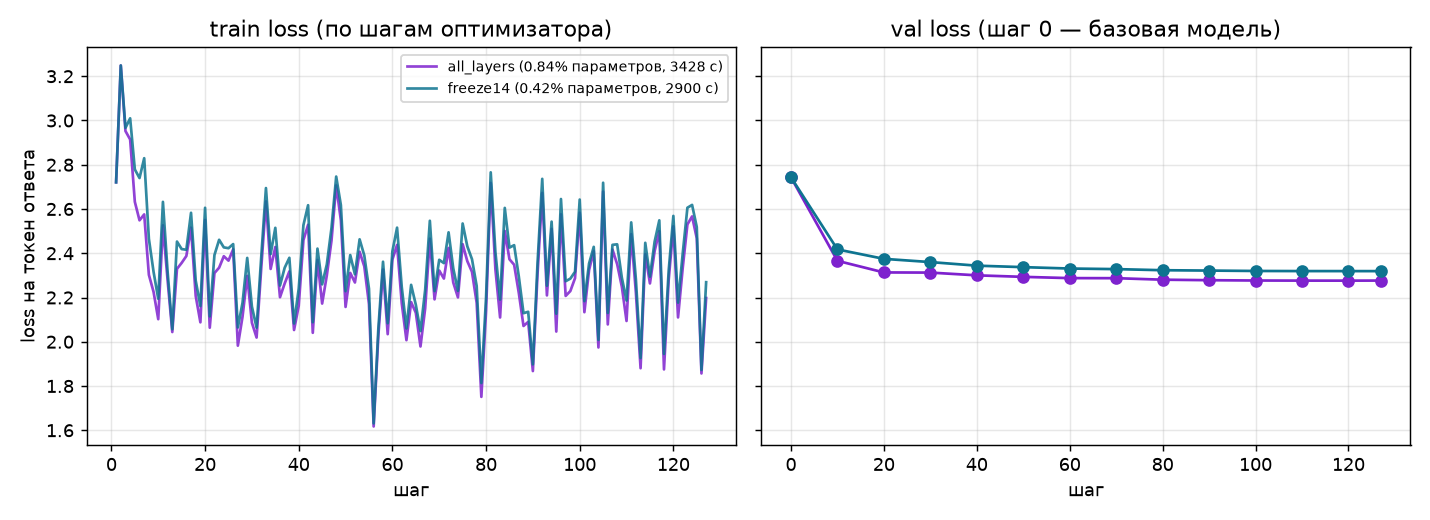
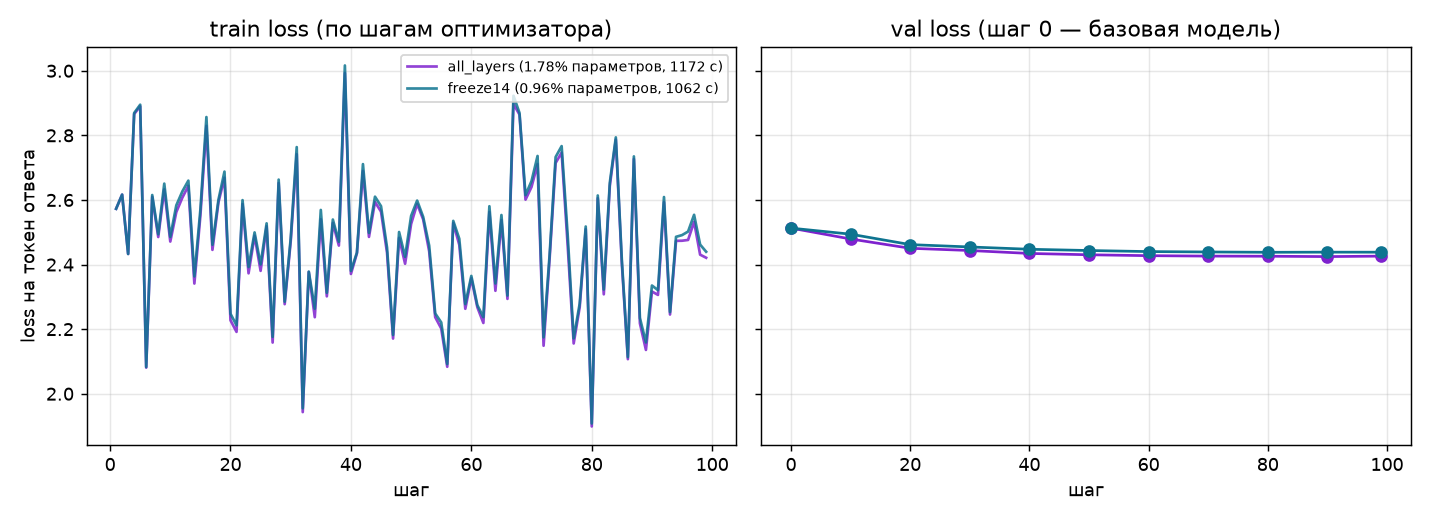
chore(hw5): переобучить адаптеры на SmolLM2-135M и пересчитать сравнение

diff --git a/docs/compare.md b/docs/compare.md
@@ -8,11 +8,11 @@ How do I save a plot as a data artifact in MetaFlow? Plotting libraries usually 
 
 **База:**
 
-> In **MetaFlow**, figures (plots) can be stored and retrieved as **data artifacts**. Here's how you can do it: /  / --- /  / ### **1. Store a Plot as a Data Artifact
+> Теперь вопрос называется "netflix-metaflow" и последним пои
 
 **Адаптер:**
 
-> You can use the `MetaFlow` class to create a new `Artifact` object, and then use the `save()` method to save the figure to a file. For example: /  / ```python
+> You can use the `plot` function from the `plotly` library. /  / ```python / import plotly.graph_objs as go /  / fig = go.Figure() / fig
 
 ## 2. Best Config after Hyperparameter Search with Ray Tune
 
@@ -22,11 +22,11 @@ I see that there are a ton of results files but is there an easy way to get the 
 
 **База:**
 
-> Вот, что можно сделать, чтобы определить лучшую конфигурацию после выполнения поиска параметров с **Ray Tune**: /  / ### 1. **П
+> Ты инженер по MLOps и отвечаешь на технические вопросы с
 
 **Адаптер:**
 
-> I think the best way to get the best configuration is to run the following command: /  / `tune run --config-file config.yaml --num-workers 1 --num-threads 1 --num-
+> I'm not sure if you're looking for a specific configuration or just a general question. /  / I would recommend checking out the Ray Tune documentation. /  / I also have a question about the
 
 ## 3. How to set a tag at the experiment level in MLFlow
 
@@ -35,11 +35,11 @@ I'm able to set a run's tag using `mlflow.set_tag`, but how do I set it for an e
 
 **База:**
 
-> In MLFlow, you can set a **tag** at the **experiment level** using the `mlflow.set_experiment_tag` function. This allows you to assign a tag to an entire experiment,
+> Мальше, вы можете понять, что вы можете создать и
 
 **Адаптер:**
 
-> You can set an experiment's tag using `mlflow.set_experiment_tag`: /  /     mlflow.set_experiment_tag("tag1", "value1") /     mlflow.set_experiment_tag("tag2",
+> You can set a tag in MLFlow using the `mlflow.set_tag` method. /  / ```python / mlflow.set_tag( /     "run_name", /     "
 
 ## 4. Log Pickle files as a part of Mlflow run
 
@@ -52,11 +52,11 @@ Is there a way to achieve this?
 
 **База:**
 
-> Да, вы можете сохранить pickle-файлы в MLOps, используя инструменты MLOps, таких как `mlflow.log_artifacts` или `
+> Yes, you can use the `pickle` module in Python to serialize and deserialize Python objects. Here's an example of how you can log the encoder objects as a pickle file: /  / ```
 
 **Адаптер:**
 
-> You can use the `mlflow.log_artifacts` function to log the pickle files.  /  / For example: /  / ```python / from mlflow import log_artifacts /  / log_artifacts( /     artifact_path
+> You can use the `pickle` module in MLflow. /  / ```python / from mlflow.core import encoder / from mlflow.core import encoder_encoder /  / encoder = encoder.
 
 ## 5. Difference between tracking_uri and the backend store uri in MLFLOW
 
@@ -66,8 +66,8 @@ Thanks,
 
 **База:**
 
-> В MLOps, `tracking_uri` и `backend_store_uri` — это два разных аспекта, связанных с **множеством хранилищ** в систем
+> In Mlflow, the backend_store_uri and the trarcking_uri are two different URI formats used to represent the backend store. /  / The backend_store_uri is a
 
 **Адаптер:**
 
-> The backend store URI is the URL where MLFlow will store the data that you want to track. The tracking URI is the URL where MLFlow will store the data that you want to track.
+> The backend store uri is the URI that is used to retrieve the backend data from the backend store. The backend store uri is the URI that is used to retrieve the data from the backend store.
